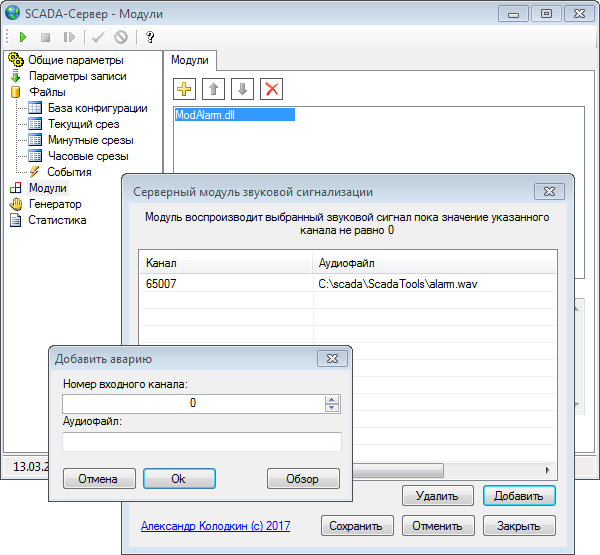
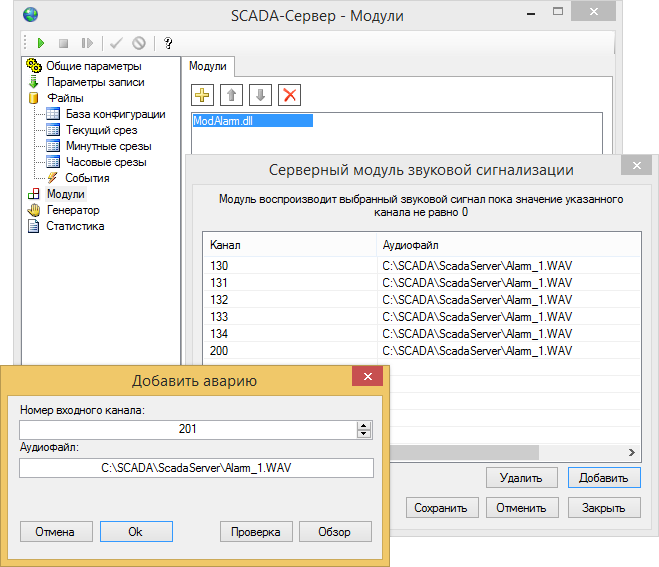
Убрал лишние записи в лог Добавлены проверки в окне добавления аварий

diff --git a/FrmAddAlarm.Designer.cs b/FrmAddAlarm.Designer.cs
@@ -41,6 +41,7 @@ namespace Scada.Server.Modules
             if (disposing && (components != null))
             {
                 components.Dispose();
+                waveOut.Dispose();
             }
             base.Dispose(disposing);
         }
@@ -68,7 +69,7 @@ namespace Scada.Server.Modules
             // btnOk
             // 
             this.btnOk.Anchor = ((System.Windows.Forms.AnchorStyles)((System.Windows.Forms.AnchorStyles.Bottom | System.Windows.Forms.AnchorStyles.Left)));
-            this.btnOk.Location = new System.Drawing.Point(121, 131);
+            this.btnOk.Location = new System.Drawing.Point(121, 153);
             this.btnOk.Name = "btnOk";
             this.btnOk.Size = new System.Drawing.Size(100, 28);
             this.btnOk.TabIndex = 0;
@@ -80,7 +81,7 @@ namespace Scada.Server.Modules
             // 
             this.btnCansel.Anchor = ((System.Windows.Forms.AnchorStyles)((System.Windows.Forms.AnchorStyles.Bottom | System.Windows.Forms.AnchorStyles.Left)));
             this.btnCansel.DialogResult = System.Windows.Forms.DialogResult.Cancel;
-            this.btnCansel.Location = new System.Drawing.Point(15, 131);
+            this.btnCansel.Location = new System.Drawing.Point(15, 153);
             this.btnCansel.Name = "btnCansel";
             this.btnCansel.Size = new System.Drawing.Size(100, 28);
             this.btnCansel.TabIndex = 1;
@@ -107,7 +108,7 @@ namespace Scada.Server.Modules
             0,
             0});
             this.inputChannel.Name = "inputChannel";
-            this.inputChannel.Size = new System.Drawing.Size(457, 22);
+            this.inputChannel.Size = new System.Drawing.Size(472, 22);
             this.inputChannel.TabIndex = 3;
             this.inputChannel.TextAlign = System.Windows.Forms.HorizontalAlignment.Center;
             this.inputChannel.ValueChanged += new System.EventHandler(this.inputChannel_ValueChanged);
@@ -127,7 +128,7 @@ namespace Scada.Server.Modules
             | System.Windows.Forms.AnchorStyles.Right)));
             this.inputPath.Location = new System.Drawing.Point(15, 76);
             this.inputPath.Name = "inputPath";
-            this.inputPath.Size = new System.Drawing.Size(457, 22);
+            this.inputPath.Size = new System.Drawing.Size(472, 22);
             this.inputPath.TabIndex = 5;
             this.inputPath.TextAlign = System.Windows.Forms.HorizontalAlignment.Center;
             this.inputPath.TextChanged += new System.EventHandler(this.inputPath_TextChanged);
@@ -135,7 +136,7 @@ namespace Scada.Server.Modules
             // btnBrowse
             // 
             this.btnBrowse.Anchor = ((System.Windows.Forms.AnchorStyles)((System.Windows.Forms.AnchorStyles.Bottom | System.Windows.Forms.AnchorStyles.Right)));
-            this.btnBrowse.Location = new System.Drawing.Point(372, 131);
+            this.btnBrowse.Location = new System.Drawing.Point(387, 153);
             this.btnBrowse.Name = "btnBrowse";
             this.btnBrowse.Size = new System.Drawing.Size(100, 28);
             this.btnBrowse.TabIndex = 6;
@@ -151,7 +152,7 @@ namespace Scada.Server.Modules
             // 
             this.btnTest.Anchor = ((System.Windows.Forms.AnchorStyles)((System.Windows.Forms.AnchorStyles.Bottom | System.Windows.Forms.AnchorStyles.Right)));
             this.btnTest.Appearance = System.Windows.Forms.Appearance.Button;
-            this.btnTest.Location = new System.Drawing.Point(266, 131);
+            this.btnTest.Location = new System.Drawing.Point(281, 153);
             this.btnTest.Name = "btnTest";
             this.btnTest.Size = new System.Drawing.Size(100, 28);
             this.btnTest.TabIndex = 7;
@@ -166,7 +167,7 @@ namespace Scada.Server.Modules
             this.AutoScaleDimensions = new System.Drawing.SizeF(8F, 16F);
             this.AutoScaleMode = System.Windows.Forms.AutoScaleMode.Font;
             this.CancelButton = this.btnCansel;
-            this.ClientSize = new System.Drawing.Size(484, 171);
+            this.ClientSize = new System.Drawing.Size(499, 193);
             this.Controls.Add(this.btnTest);
             this.Controls.Add(this.btnBrowse);
             this.Controls.Add(this.inputPath);
@@ -175,9 +176,9 @@ namespace Scada.Server.Modules
             this.Controls.Add(this.lblChannel);
             this.Controls.Add(this.btnCansel);
             this.Controls.Add(this.btnOk);
-            this.FormBorderStyle = System.Windows.Forms.FormBorderStyle.FixedSingle;
             this.MaximizeBox = false;
             this.MinimizeBox = false;
+            this.MinimumSize = new System.Drawing.Size(500, 240);
             this.Name = "FrmAddAlarm";
             this.ShowIcon = false;
             this.SizeGripStyle = System.Windows.Forms.SizeGripStyle.Hide;
@@ -185,6 +186,7 @@ namespace Scada.Server.Modules
             this.Text = "Добавить аварию";
             this.FormClosing += new System.Windows.Forms.FormClosingEventHandler(this.FrmAddAlarm_FormClosing);
             this.Load += new System.EventHandler(this.FrmAddAlarm_Load);
+            this.Shown += new System.EventHandler(this.FrmAddAlarm_Shown);
             ((System.ComponentModel.ISupportInitialize)(this.inputChannel)).EndInit();
             this.ResumeLayout(false);
             this.PerformLayout();

diff --git a/FrmAlarmConfig.cs b/FrmAlarmConfig.cs
@@ -47,6 +47,10 @@ namespace Scada.Server.Modules.Alarm
         private bool modified;         // признак изменения конфигурации
         private bool changing;         // происходит изменение значений элементов управления
 
+        private int lastChannel = 0;   // последний добавленный канал
+        private string lastPath = "";  // последний добавленный аудиофайл
+
+        private string msg;            // сообщение
 
         /// <summary>
         /// Конструктор, ограничивающий создание формы без параметров
@@ -90,7 +94,7 @@ namespace Scada.Server.Modules.Alarm
             frmAlarmConfig.serverComm = serverComm;
             frmAlarmConfig.ShowDialog();
         }
-        
+
 
         /// <summary>
         /// Сохранить конфигурацию модуля
@@ -152,6 +156,9 @@ namespace Scada.Server.Modules.Alarm
 
                     inputChannels.Columns[1].Text = Localization.Dictionaries["Scada.Server.Modules.Alarm.FrmAlarmConfig"]
                         .GetPhrase("columnSoundFile", inputChannels.Columns[0].Text);
+
+                    msg = Localization.Dictionaries["Scada.Server.Modules.Alarm.FrmAlarmConfig"]
+                        .GetPhrase("message", "Данный канал уже исползуется. Именить его?");
                 }
                 else
                     ScadaUiUtils.ShowError(errMsg);
@@ -223,6 +230,9 @@ namespace Scada.Server.Modules.Alarm
             {
                 FrmAddAlarm dialog = new FrmAddAlarm(appDirs);
 
+                dialog.SoundFilePath = lastPath;
+                dialog.Channel = lastChannel + 1;
+
                 if (dialog.ShowDialog() == DialogResult.OK)
                 {
                     config.channels.Add(dialog.Channel, dialog.SoundFilePath);
@@ -232,6 +242,8 @@ namespace Scada.Server.Modules.Alarm
                     inputChannels.Items.Add(item);
 
                     Modified = true;
+                    lastPath = dialog.SoundFilePath;
+                    lastChannel = dialog.Channel;
                 }
             }
         }

diff --git a/FrmAddAlarm.cs b/FrmAddAlarm.cs
@@ -27,6 +27,7 @@
 using Scada.Client;
 using Scada.UI;
 using System;
+using System.IO;
 using System.Collections.Generic;
 using System.ComponentModel;
 using System.Data;
@@ -40,10 +41,12 @@ namespace Scada.Server.Modules
 {
     public partial class FrmAddAlarm : Form
     {
-        private AppDirs appDirs;       // директории приложения
         public string SoundFilePath;
         public int Channel;
+
+        private AppDirs appDirs;         // директории приложения
         private WaveOut waveOut = null;
+
 
         public FrmAddAlarm(AppDirs appDirs)
         {
@@ -62,11 +65,17 @@ namespace Scada.Server.Modules
         private void inputChannel_ValueChanged(object sender, EventArgs e)
         {
             Channel = Decimal.ToInt32(inputChannel.Value);
+
+            // обновление состояние кнопки ОK
+            UpdateOkButton();
         }
 
         private void inputPath_TextChanged(object sender, EventArgs e)
         {
             SoundFilePath = inputPath.Text;
+
+            // обновление состояние кнопки ОK
+            UpdateOkButton();
         }
 
         private void btnOk_Click(object sender, EventArgs e)
@@ -133,6 +142,21 @@ namespace Scada.Server.Modules
                 waveOut.Dispose();
                 waveOut = null;
             }
+        }
+
+        private void UpdateOkButton()
+        {
+            btnOk.Enabled = (File.Exists(SoundFilePath) && (Channel >= 0) && (Channel <= 65535));
+        }
+
+        private void FrmAddAlarm_Shown(object sender, EventArgs e)
+        {
+            // задание начальных значений
+            inputChannel.Value = Channel;
+            inputPath.Text = SoundFilePath;
+
+            // обновление состояние кнопки ОK
+            UpdateOkButton();
         }
     }
 }

diff --git a/ModAlarmLogic.cs b/ModAlarmLogic.cs
@@ -199,11 +199,8 @@ namespace Scada.Server.Modules
             {
                 if (waveOuts.ContainsKey(channel))
                 {
-                    log.WriteAction(string.Format("ContainsKey: {0}", channel));
-
                     if (config.channels[channel] == null)
                     {
-                        log.WriteAction(string.Format("Channel: {0}", channel));
                         WaveFileReader reader = new WaveFileReader(config.channels[channel]);
                         LoopStream loop = new LoopStream(reader);
                         waveOuts[channel] = new WaveOut();
@@ -214,8 +211,6 @@ namespace Scada.Server.Modules
                 }
                 else
                 {
-                    log.WriteAction(string.Format("Create: {0}", channel));
-
                     WaveFileReader reader = new WaveFileReader(config.channels[channel]);
                     LoopStream loop = new LoopStream(reader);
                     waveOuts.Add(channel, new WaveOut());
